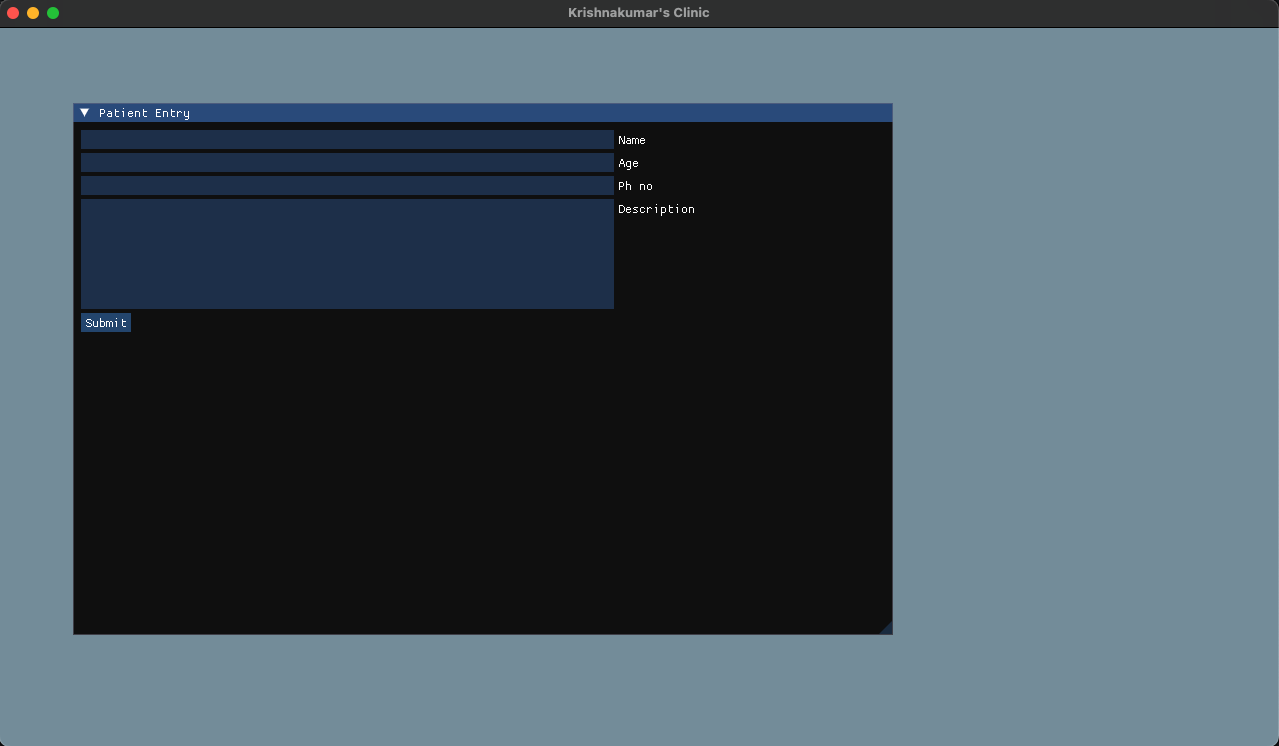
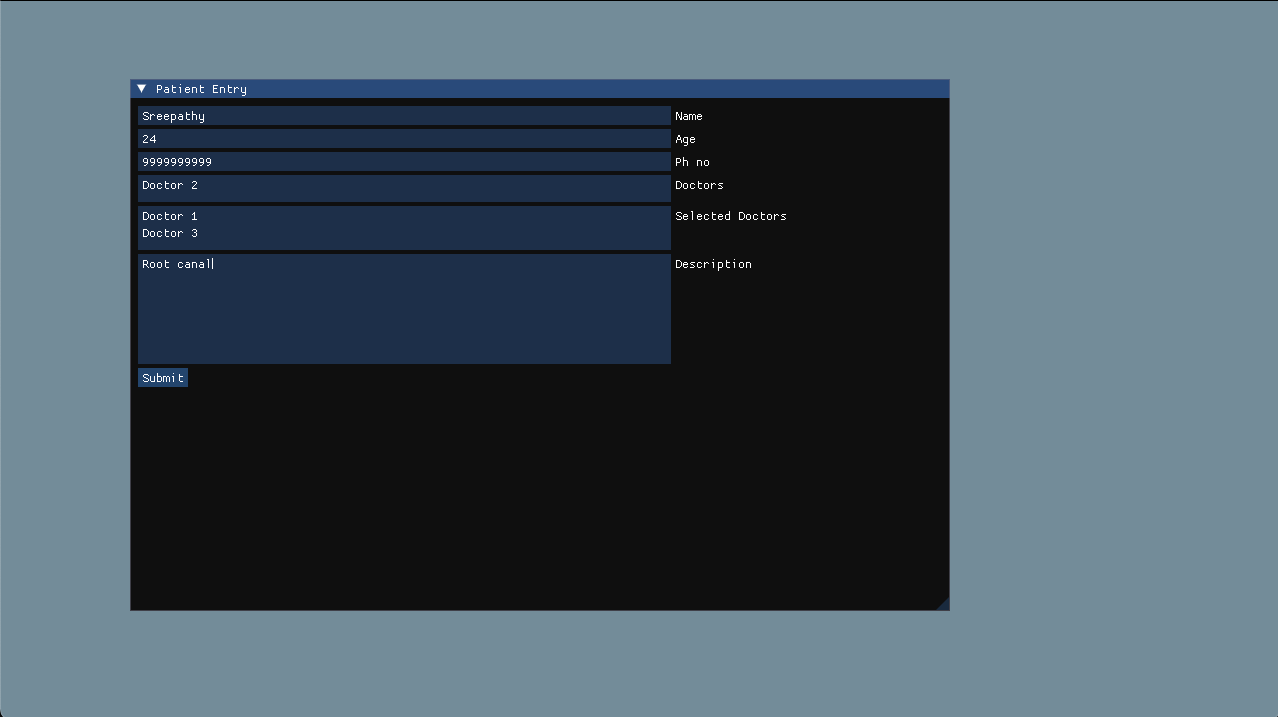
Multiselect doctors

Changed region(s): [[0.0305, 0.0921, 0.7629, 0.8591], [0.0, 0.0, 1.0, 0.0614]]

diff --git a/myapp.cpp b/myapp.cpp
@@ -109,6 +109,9 @@ int main(int, char**)
     int show_form_status = 0;
     ImVec4 clear_color = ImVec4(0.45f, 0.55f, 0.60f, 1.00f);
     const size_t buf_size = 50;
+    std::vector<char*> doctors = {"Doctor 1", "Doctor 2", "Doctor 3"};
+    std::vector<char*> selected_doctors;
+    int cur_doc = -1, cur_doc_s = -1;
     char patient_name[buf_size], patient_description[buf_size], patient_age[buf_size], patient_ph_no[buf_size];
     strcpy(patient_description, "\0");
     strcpy(patient_name, "\0");
@@ -137,16 +140,38 @@ int main(int, char**)
         ImGui::InputText("Name", patient_name, buf_size);
         ImGui::InputText("Age", patient_age, buf_size);
         ImGui::InputText("Ph no", patient_ph_no, buf_size);
+        char** doctor_items =  doctors.data();
+        char** doctor_s_items =  selected_doctors.data();
+        ImGui::ListBox("Doctors", &cur_doc, doctor_items, doctors.size());
+        ImGui::ListBox("Selected Doctors", &cur_doc_s, doctor_s_items, selected_doctors.size());
+          /* std::printf("Cur item: %d\n", cur_doc); */
+        if (cur_doc != -1) {
+          selected_doctors.push_back(*(doctors.begin() + cur_doc));
+          auto deleted = doctors.erase(doctors.begin() + cur_doc);
+          cur_doc = -1;
+        }
+        if (cur_doc_s != -1) {
+          doctors.push_back(*(selected_doctors.begin() + cur_doc_s));
+          auto deleted = selected_doctors.erase(selected_doctors.begin() + cur_doc_s);
+          cur_doc_s = -1;
+        }
         ImGui::InputTextMultiline("Description", patient_description, buf_size);
         if (ImGui::Button("Submit")) {
+          std::printf("Cur item: %d\n", cur_doc);
           if (strlen(patient_name) > 0 && strlen(patient_age) > 0 && strlen(patient_ph_no) > 0 && strlen(patient_description) > 0) {
             input_file.open("patients.csv");
             output_file.open("patients.csv", std::ios_base::app);
             char first_char;
             if (input_file.peek() == std::ifstream::traits_type::eof()) {
-              output_file << "Name, Age, Ph.no, Description\n";
+              output_file << "Name, Age, Ph.no, Description, Doctors\n";
             }
-            output_file << patient_name << ", " << patient_age << ", " << patient_ph_no << ", " << patient_description << "\n";
+            output_file << patient_name << ", " << patient_age << ", " << patient_ph_no << ", " << patient_description << ", ";
+            output_file << "\"";
+            for (char* d: selected_doctors) {
+              output_file << d <<  ", ";
+            }
+            output_file << "\b\b";
+            output_file << "\"";
             output_file.close();
             input_file.close();
             std::printf("Written patient info to patients.csv\n");
